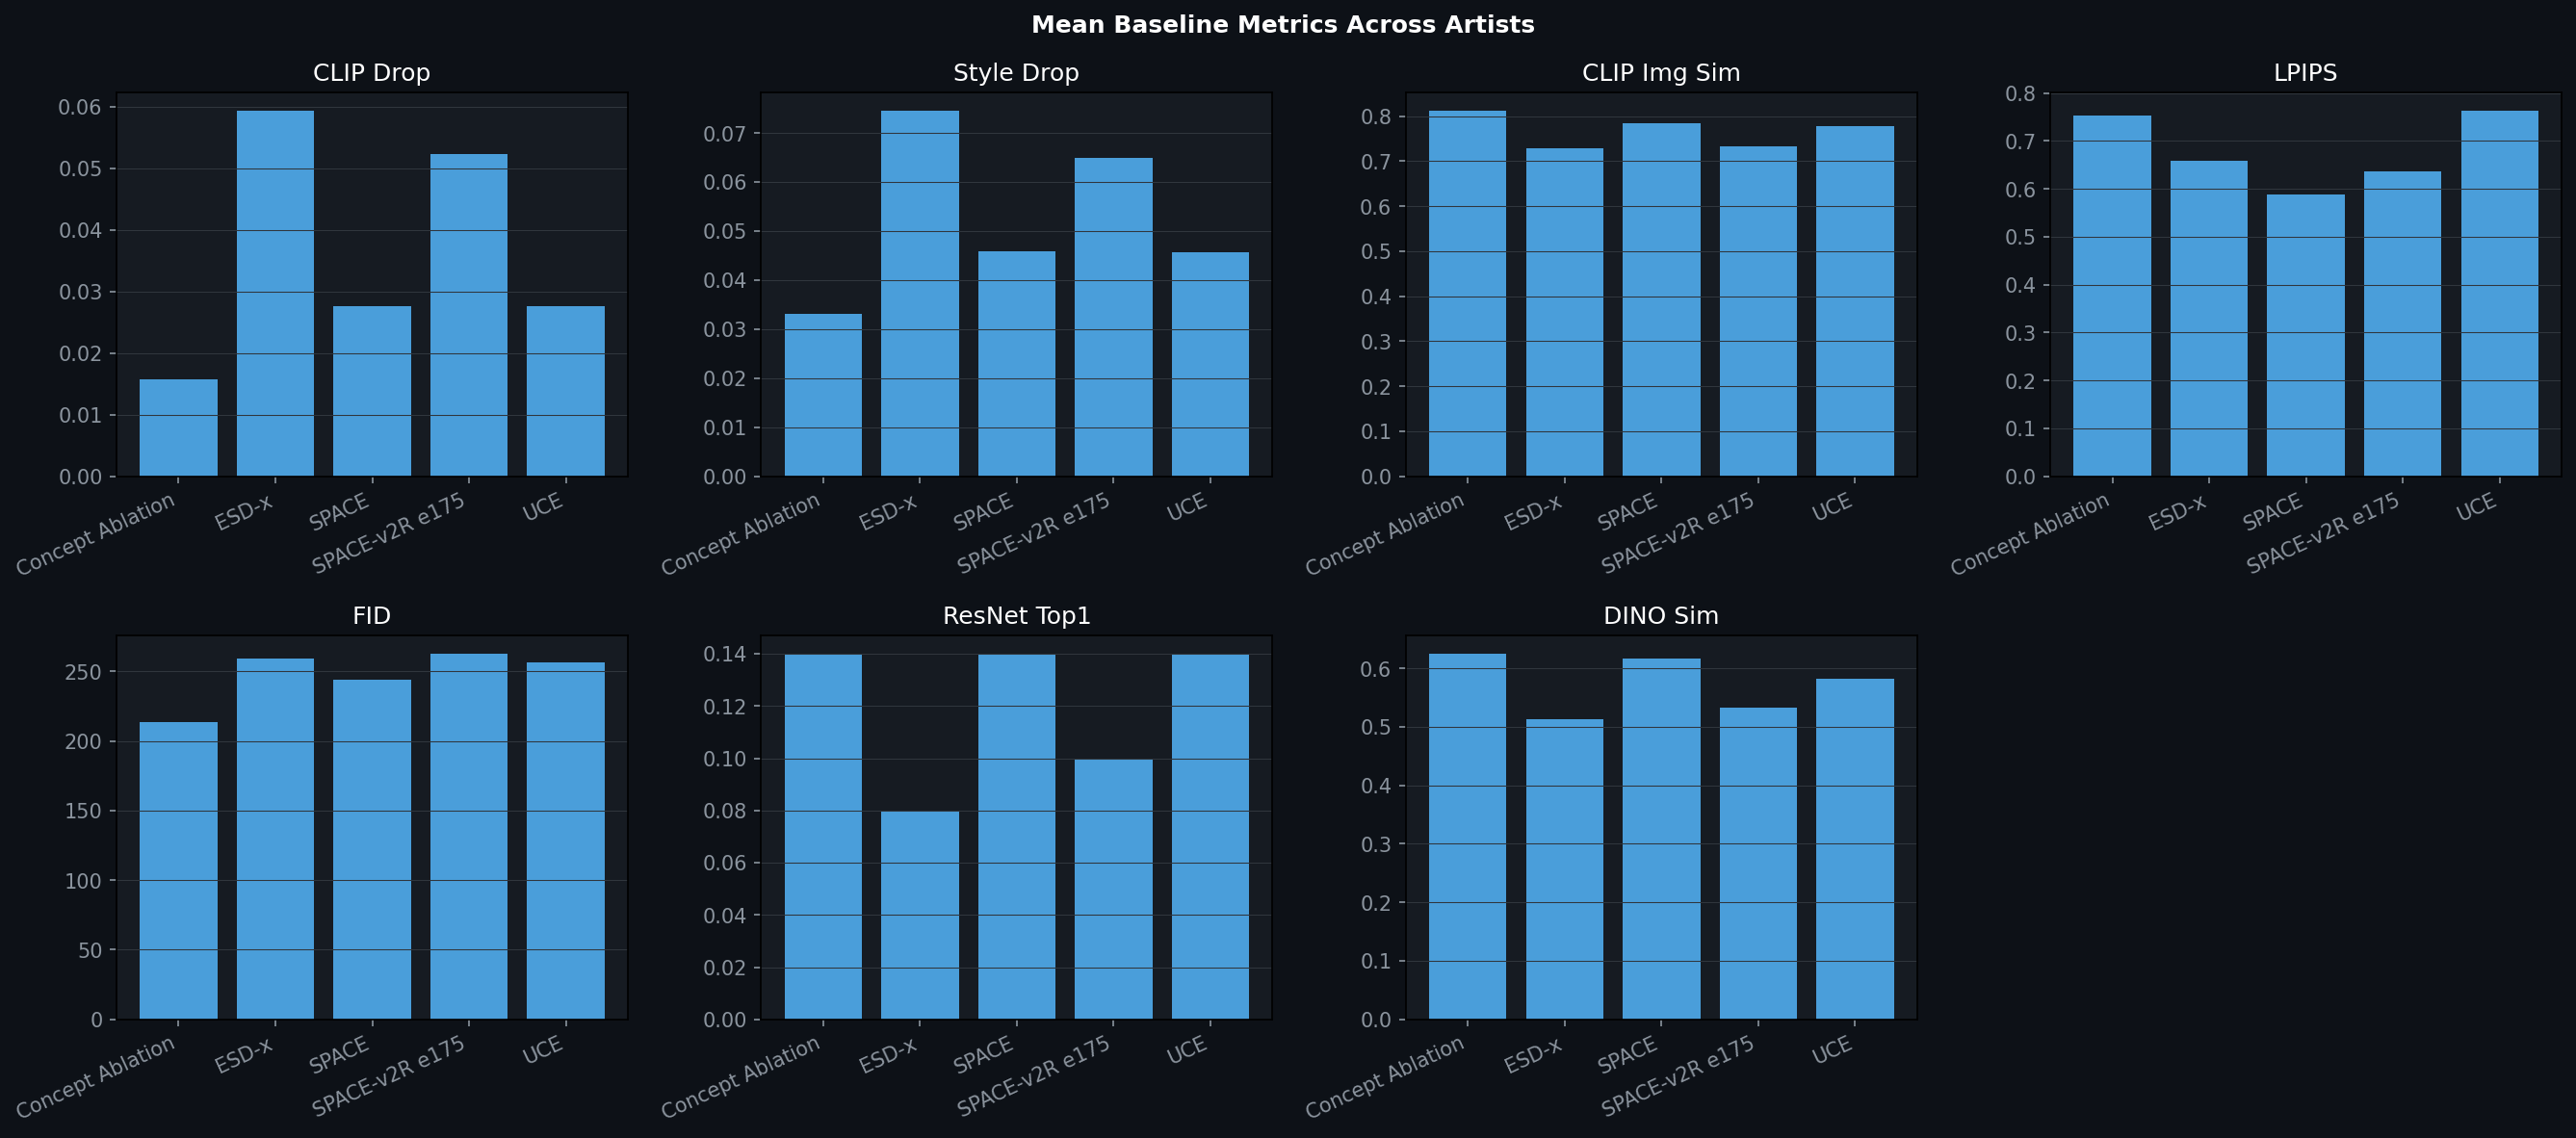
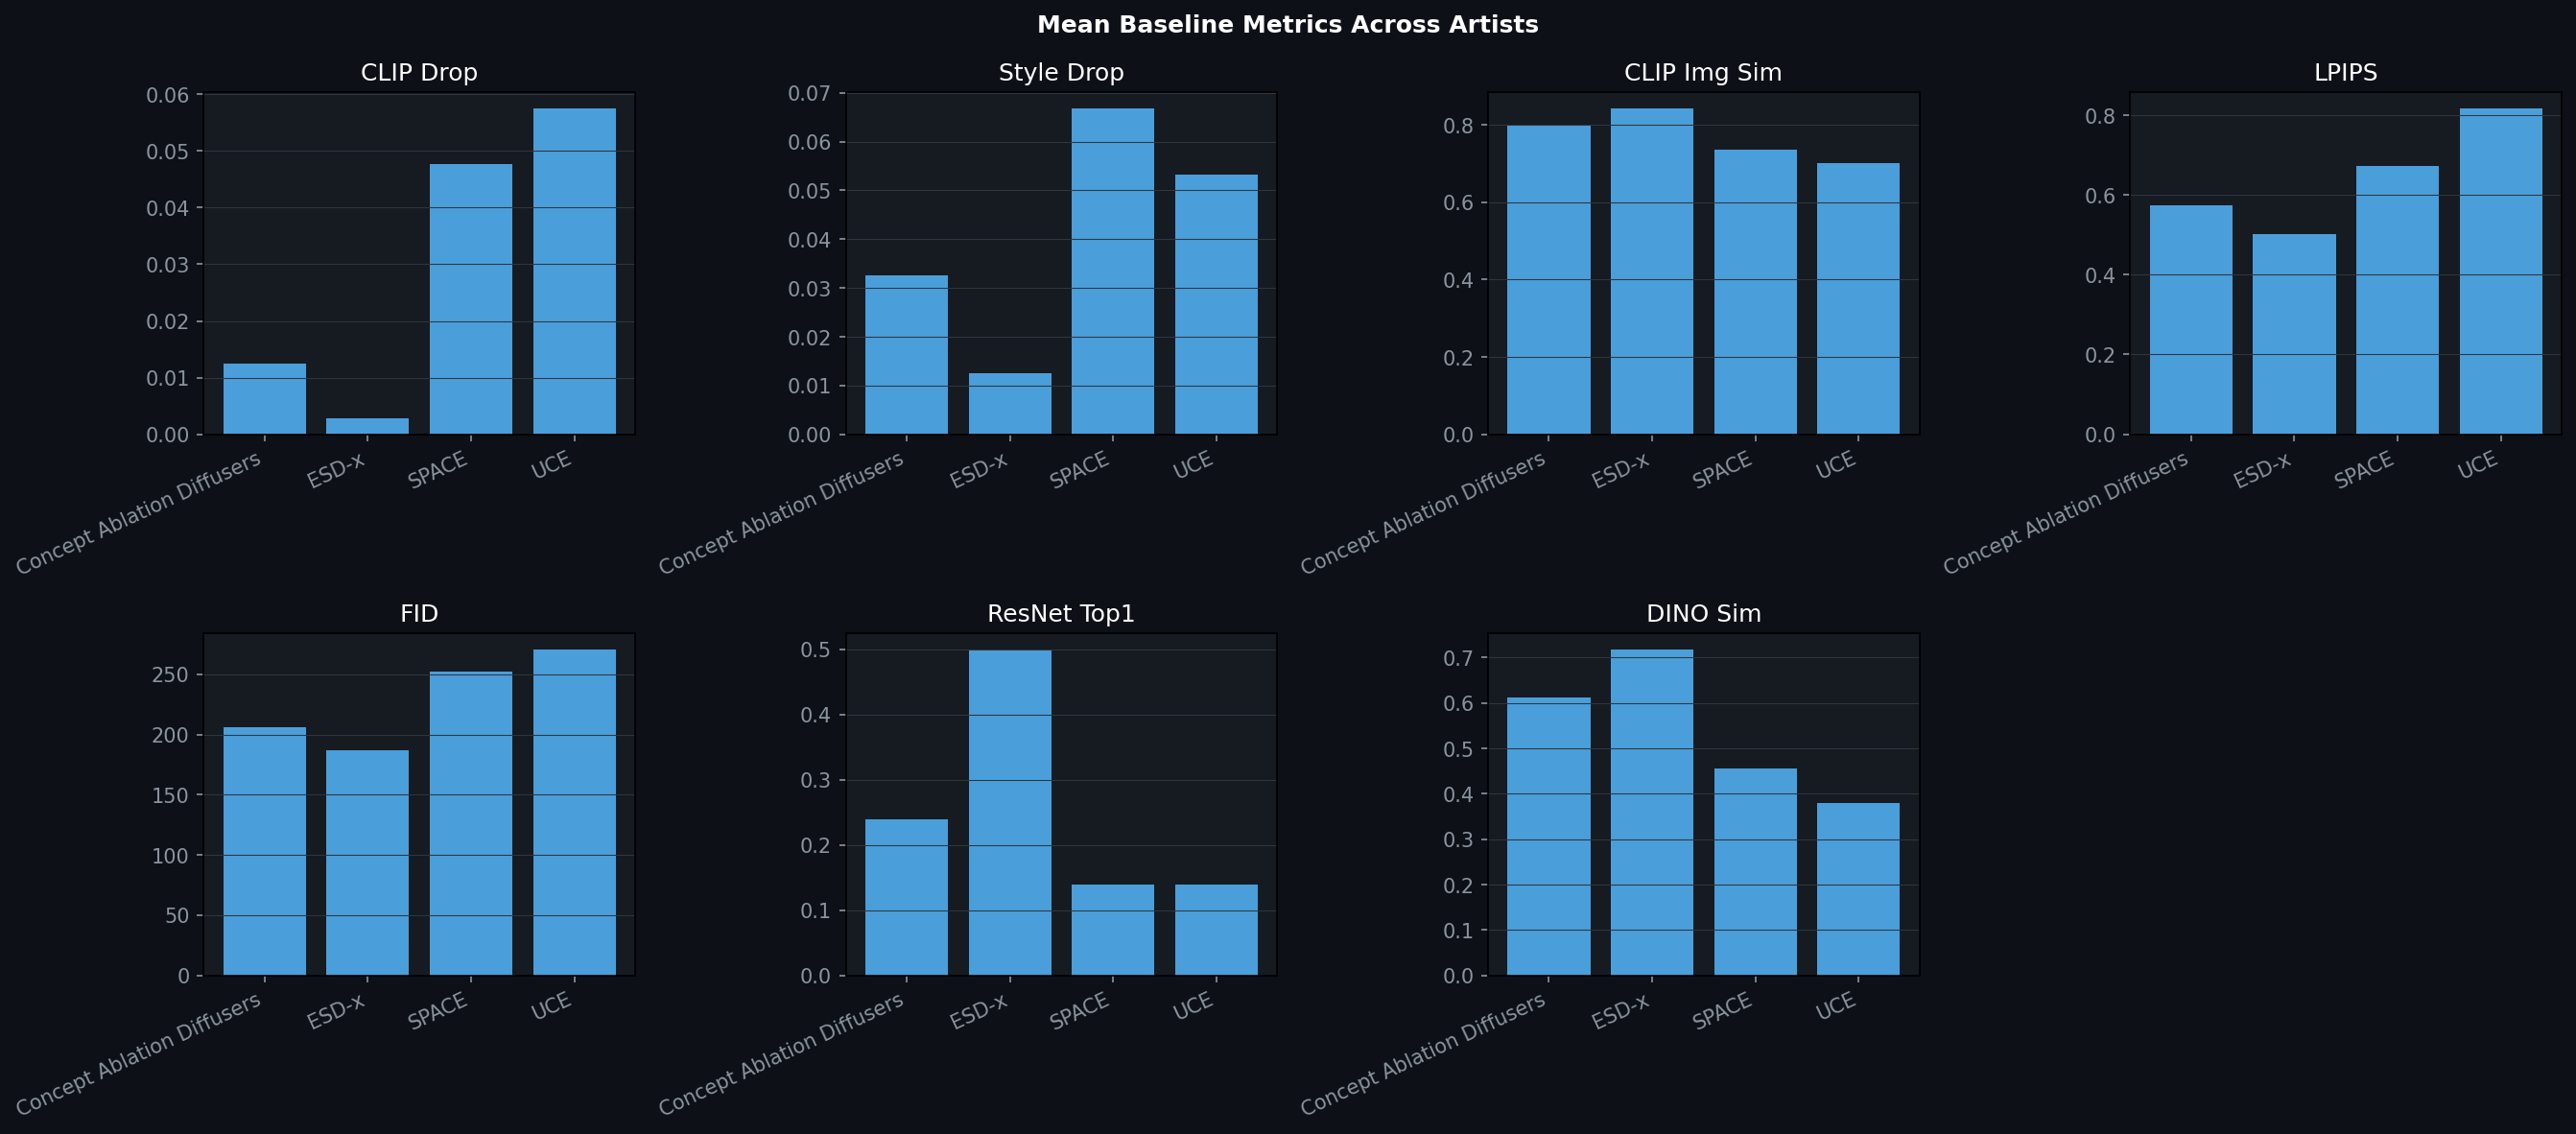
Add Andy Warhol results: images and evaluation metrics for all 4 methods

diff --git a/results/evaluation/ablation_table.tex b/results/evaluation/ablation_table.tex
@@ -2,15 +2,13 @@
 \toprule
 artist & method & n_pairs & clip_vanilla & clip_method & clip_drop & style_vanilla & style_method & style_drop & style_target_rate & clip_image_similarity & lpips & fid & kid & resnet_top1_agreement & resnet_top5_overlap & dino_similarity & run_mode \\
 \midrule
-Van Gogh & ESD-x & 50.0000 & 0.3348 & 0.2755 & 0.0593 & 0.3038 & 0.2293 & 0.0745 & 0.3200 & 0.7289 & 0.6587 & 259.1910 & 0.0652 & 0.0800 & 0.1720 & 0.5129 & fair-eval \\
-Van Gogh & UCE & 50.0000 & 0.3348 & 0.3072 & 0.0276 & 0.3038 & 0.2582 & 0.0456 & 0.5000 & 0.7777 & 0.7629 & 256.1761 & 0.0587 & 0.1400 & 0.2000 & 0.5828 & official-replication \\
-Van Gogh & Concept Ablation & 50.0000 & 0.3348 & 0.3191 & 0.0158 & 0.3038 & 0.2706 & 0.0332 & 0.6400 & 0.8119 & 0.7537 & 213.4296 & 0.0365 & 0.1400 & 0.2560 & 0.6250 & official-replication \\
-Van Gogh & SPACE & 50.0000 & 0.3348 & 0.3073 & 0.0275 & 0.3038 & 0.2579 & 0.0459 & 0.4600 & 0.7840 & 0.5887 & 243.7481 & 0.0613 & 0.1400 & 0.2120 & 0.6168 & research-method \\
-Van Gogh & SPACE-v2R e175 & 50.0000 & 0.3348 & 0.2825 & 0.0524 & 0.3038 & 0.2389 & 0.0648 & 0.2200 & 0.7320 & 0.6369 & 262.5957 & 0.0693 & 0.1000 & 0.1240 & 0.5328 & research-method \\
-MEAN & Concept Ablation & 50.0000 & 0.3348 & 0.3191 & 0.0158 & 0.3038 & 0.2706 & 0.0332 & 0.6400 & 0.8119 & 0.7537 & 213.4296 & 0.0365 & 0.1400 & 0.2560 & 0.6250 & official-replication \\
-MEAN & ESD-x & 50.0000 & 0.3348 & 0.2755 & 0.0593 & 0.3038 & 0.2293 & 0.0745 & 0.3200 & 0.7289 & 0.6587 & 259.1910 & 0.0652 & 0.0800 & 0.1720 & 0.5129 & fair-eval \\
-MEAN & SPACE & 50.0000 & 0.3348 & 0.3073 & 0.0275 & 0.3038 & 0.2579 & 0.0459 & 0.4600 & 0.7840 & 0.5887 & 243.7481 & 0.0613 & 0.1400 & 0.2120 & 0.6168 & research-method \\
-MEAN & SPACE-v2R e175 & 50.0000 & 0.3348 & 0.2825 & 0.0524 & 0.3038 & 0.2389 & 0.0648 & 0.2200 & 0.7320 & 0.6369 & 262.5957 & 0.0693 & 0.1000 & 0.1240 & 0.5328 & research-method \\
-MEAN & UCE & 50.0000 & 0.3348 & 0.3072 & 0.0276 & 0.3038 & 0.2582 & 0.0456 & 0.5000 & 0.7777 & 0.7629 & 256.1761 & 0.0587 & 0.1400 & 0.2000 & 0.5828 & official-replication \\
+Andy Warhol & ESD-x & 50.0000 & 0.3397 & 0.3368 & 0.0029 & 0.2927 & 0.2802 & 0.0124 & 0.6600 & 0.8432 & 0.5020 & 186.7786 & 0.0001 & 0.5000 & 0.4480 & 0.7178 & fair-eval \\
+Andy Warhol & UCE & 50.0000 & 0.3397 & 0.2822 & 0.0575 & 0.2927 & 0.2395 & 0.0531 & 0.1200 & 0.7014 & 0.8169 & 270.6312 & 0.0360 & 0.1400 & 0.1920 & 0.3801 & official-replication \\
+Andy Warhol & Concept Ablation Diffusers & 50.0000 & 0.3397 & 0.3273 & 0.0124 & 0.2927 & 0.2601 & 0.0326 & 0.5000 & 0.7978 & 0.5729 & 206.1370 & 0.0091 & 0.2400 & 0.3480 & 0.6118 & fair-eval \\
+Andy Warhol & SPACE & 50.0000 & 0.3397 & 0.2919 & 0.0478 & 0.2927 & 0.2259 & 0.0668 & 0.1000 & 0.7359 & 0.6732 & 252.5605 & 0.0316 & 0.1400 & 0.2320 & 0.4565 & research-method \\
+MEAN & Concept Ablation Diffusers & 50.0000 & 0.3397 & 0.3273 & 0.0124 & 0.2927 & 0.2601 & 0.0326 & 0.5000 & 0.7978 & 0.5729 & 206.1370 & 0.0091 & 0.2400 & 0.3480 & 0.6118 & fair-eval \\
+MEAN & ESD-x & 50.0000 & 0.3397 & 0.3368 & 0.0029 & 0.2927 & 0.2802 & 0.0124 & 0.6600 & 0.8432 & 0.5020 & 186.7786 & 0.0001 & 0.5000 & 0.4480 & 0.7178 & fair-eval \\
+MEAN & SPACE & 50.0000 & 0.3397 & 0.2919 & 0.0478 & 0.2927 & 0.2259 & 0.0668 & 0.1000 & 0.7359 & 0.6732 & 252.5605 & 0.0316 & 0.1400 & 0.2320 & 0.4565 & research-method \\
+MEAN & UCE & 50.0000 & 0.3397 & 0.2822 & 0.0575 & 0.2927 & 0.2395 & 0.0531 & 0.1200 & 0.7014 & 0.8169 & 270.6312 & 0.0360 & 0.1400 & 0.1920 & 0.3801 & official-replication \\
 \bottomrule
 \end{tabular}